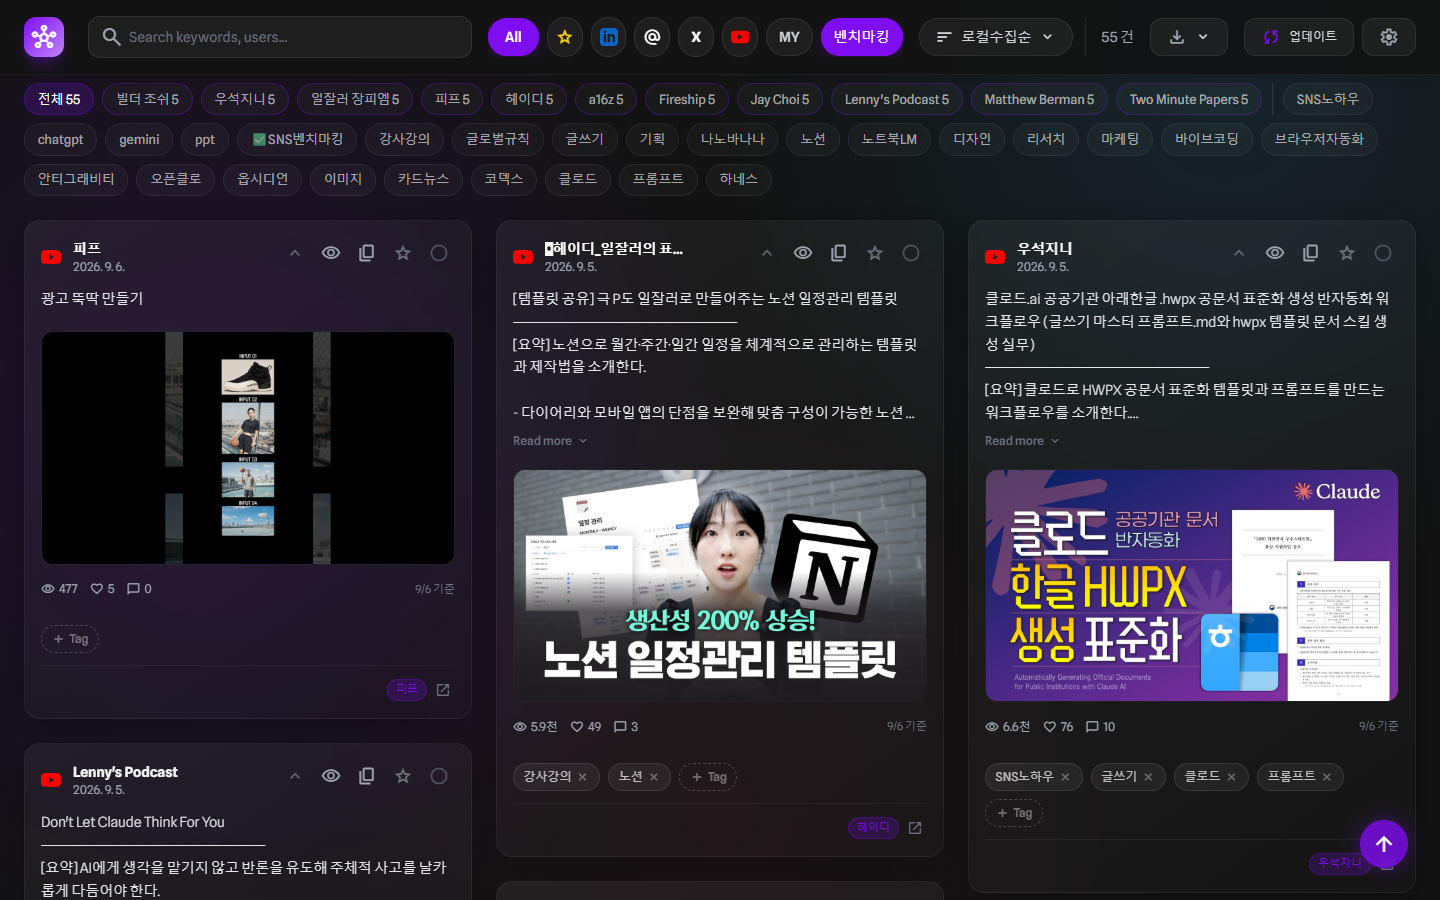
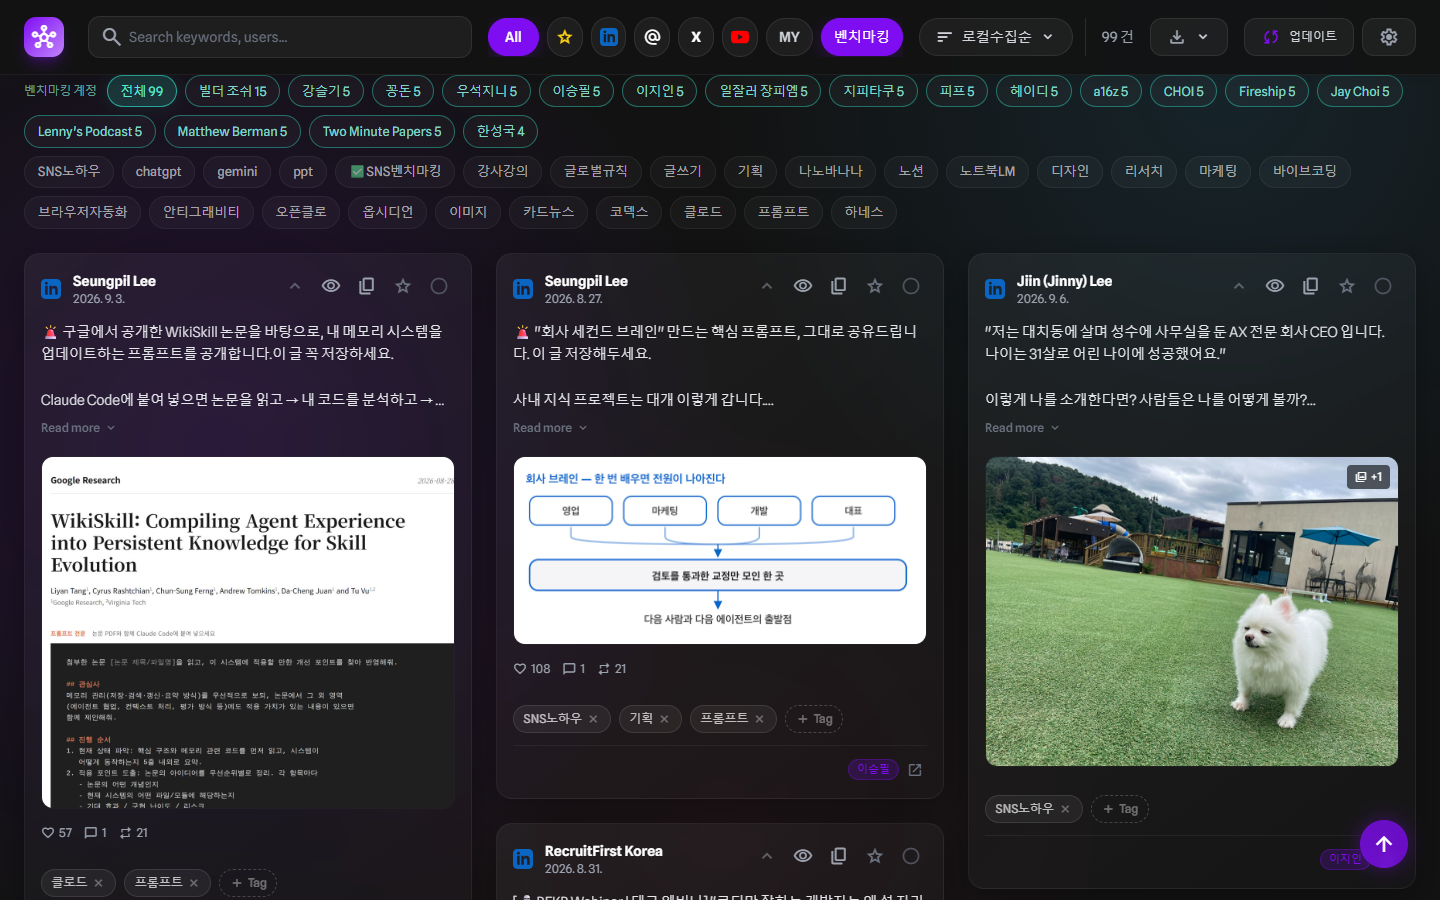
docs(benchmark): 플랫폼확장 계획 실행완료 표기와 완료검수 기록
one-stop 마무리 — 계획서에 §7「실행 결과」를 넣고 _실행완료 로 rename 했다.
SPEC 의 위키링크 4곳이 obsidian-fileops 로 함께 갱신됐다.

완료검수(agy Gemini 3.1 Pro High) 판정 「완료」, Blocking 0건.
Advisory 2건 중 하나는 검수 중 확인해 해소했다 — Threads 지표 매핑은
「미확정」이 아니라 utils/threads_parser.py THREADS_METRIC_FIELD_MAP 에 이미
있었고, 수집분 29건 전부에서 좋아요·댓글·리포스트·인용이 채워진다(각 29/29).
계획서 R4 를 그 실측으로 정정했다.

남은 Advisory 는 LinkedIn 내부 ID 2계정(한성국·김민정)의 slug 재조사이며
계획서 §6 V2 가 예고하고 §7 R1 이 인수한 항목이다.

증거 캡처: _docs/evidence/20260906_03/mainview/ · design/

diff --git a/_docs/20260906_03_벤치마킹-플랫폼확장과-뷰어결함-수정계획_실행완료.md b/_docs/20260906_03_벤치마킹-플랫폼확장과-뷰어결함-수정계획_실행완료.md
@@ -282,3 +282,60 @@ permalink가 나오므로 **중복 제거 키를 만들 수 있다** — 계정 
 | **V2** | LinkedIn 내부 ID로 활동탭이 안 열릴 수 있다 | 이지인(slug)으로 먼저 검증한 뒤 내부 ID 2명(한성국·김민정)을 확인. 실패하면 그 2명만 slug를 다시 찾는다 |
 | **V3** | 플랫폼이 늘면 수집 시간이 늘어 뷰어 「업데이트」 버튼이 오래 묶인다 | `BL-0825-02`(비동기화)의 착수 조건에 해당하는지 W4 이후 재평가 |
 | **V4** | Threads 상대시각(`1m`·`2h`) 변환 오류 | 어댑터에서 KST naive로 확정하고 단위 테스트를 붙인다 |
+
+---
+
+## 7. 실행 결과 (2026-09-06)
+
+### 웨이브별 커밋
+
+| 웨이브 | 커밋 | 결과 |
+|---|---|---|
+| **W1** 겹친 글 복원 | `884884b` | 장피엠 칩 0→5, 칩 합계 49→55. **코드 변경분은 병행 세션 커밋 `a853b1a` 에 섞여 들어갔다**(아래 참조) |
+| **W2** 검증 오염 차단 | `861b783` | 5종이 17601 전용 서버 + 임시 계정파일을 쓴다. SIGKILL 후에도 운영 파일 무변화 |
+| **W3** LinkedIn 연결 | `a1c6c55` | 3계정 13건 통합본 반영 |
+| **W4** Threads 연결 | `2003596` | 6계정 28건 통합본 반영 |
+| **W5** 칩 구분·표시 실제화 | `cfae03d` | 계정 칩 전용 줄 + 청록 계열 분리, 「수집 가능」 표시 실제와 일치 |
+| **W6** SPEC·백로그 정정 | `cf1656c` | R2 동사 복원, 제약 해소 표기, 백로그 3건 제거 |
+
+### 최종 상태
+
+**통합본 2,779건 · 벤치마킹 94건(YouTube 53 · Threads 28 · LinkedIn 13) · 화면 18계정 99건**
+
+빌더 조쉬가 유튜브 5 + LinkedIn 5 + Threads 5 = **15건으로 한 계정에 묶였다.** 원천 설계의 *"지정한 계정이 있는 곳을 긁는다"* 가 성립한다.
+
+### 검증 결과
+
+| 스크립트 | 결과 |
+|---|---|
+| `verify_benchmark_mainview.mjs` | 12/12 (M9~M12 신규) |
+| `verify_benchmark_ui_design.mjs` | 21/21 (D6~D9 신규) |
+| `verify_benchmark_viewer_headless.mjs` | 6/6 |
+| `verify_benchmark_settings_headless.mjs` | 7/7 |
+| `verify_benchmark_scenarios.mjs` | 15/15 |
+| `verify_benchmark_handle_check.mjs` | 3/3 |
+| `verify_benchmark_platform.py` | linkedin 6/6 · threads 6/6 · youtube 6/6 |
+| `pytest tests/unit tests/contract` | 493 passed |
+
+멱등성: 재수집·재병합 후 2,751 → 2,751(증가 0).
+
+### 계획과 달라진 것
+
+| # | 무엇 | 왜 |
+|---|---|---|
+| **1** | **W1 코드가 독립 커밋으로 남지 못했다** | 병행 세션이 `a853b1a` 를 만들 때 `web_viewer/script.js`·`style.css` 의 W1 수정이 함께 들어갔다. 남의 커밋을 되돌리지 않고 사실만 기록했다 |
+| **2** | **중복 지점이 2곳이 아니라 3곳이었다** | `buildBenchmarkBadge()` 도 같은 조건으로 걸러 겹친 글에 배지가 안 붙었다. 셋을 함께 고쳤다 |
+| **3** | **계정 파일을 건드리는 5종의 구성이 달랐다** | `ui_design` 이 아니라 `handle_check` 였다 |
+| **4** | **포트를 17601 로 잡았다** | 계획서 초안의 5099 는 포트 대장에 없는 번호였다. 대장이 이 레포에 예약한 백업 번호를 쓴다 |
+| **5** | **검증 스크립트를 플랫폼 인자화했다** | `verify_benchmark_linkedin.py` → `verify_benchmark_platform.py`. 세 플랫폼이 같은 기준으로 판정된다 |
+| **6** | **M11 이 스크롤 없이 카드를 세어 오판했다** | 화면은 첫 60개만 렌더하고 나머지는 스크롤 때 붙는다(`script.js` firstBatch). 검사를 고쳤다 |
+
+### 남은 것
+
+| # | 무엇 | 상태 |
+|---|---|---|
+| **R1** | **LinkedIn 내부 ID 2계정이 안 긁힌다** | 한성국(`ACoAAEYs…`)·김민정(`ACoAADk-…`)은 활동탭이 열리지 않아 0건. **위험 V2 가 예고한 그대로다.** 읽는 주소를 따로 찾아야 한다. 한성국은 Threads 로 4편 들어와 있다 |
+| **R2** | **X 계정 단위 수집기가 없다** | 등록된 X 계정이 0개라 대상이 생길 때 착수한다 |
+| **R3** | **Threads 30편 확대 시 스크롤 필요 여부 미확인** | 5편 상한에서는 무관하다. §2.5 대체 경로 표가 그때의 판단 재료다 |
+| ~~**R4**~~ **해소(2026-09-06 완료검수 중 확인)** | ~~Threads 지표 필드 매핑 미확정~~ | 매핑은 이미 `utils/threads_parser.py` `THREADS_METRIC_FIELD_MAP` 에 있었다 — `direct_reply_count→comment_count` · `repost_count→share_count` · `quote_count→quote_count`. **수집분 29건 전부에서 네 지표가 채워졌다**(각 29/29). 조회수만 0건인데 그것은 SPEC 이 이미 확인한 플랫폼 제약이다(남의 계정 조회수 비공개) |
+| **R5** | **LinkedIn 이미지 18건 다운로드 실패** | 병합 로그의 기존 현상이며 이번 변경과 무관하다. `BL-0412-01`(CDN 403) 계열 |

diff --git a/_docs/done-check/20260906_03_벤치마킹-플랫폼확장과-뷰어결함-수정계획_완료검수보고서.md b/_docs/done-check/20260906_03_벤치마킹-플랫폼확장과-뷰어결함-수정계획_완료검수보고서.md
@@ -1,0 +1,48 @@
+---
+title: "벤치마킹-플랫폼확장과-뷰어결함-수정계획"
+created: "2026-09-06 23:36"
+session_id: "89207449-576f-44b5-b818-8f28f3ec2f41"
+session_path: "C:/Users/ahnbu/.claude/projects/D--vibe-coding-scrap-sns/89207449-576f-44b5-b818-8f28f3ec2f41.jsonl"
+ai: "claude"
+model: "Gemini 3.1 Pro (High)"
+performed_at: "2026-09-06 23:36:12"
+---
+
+# Done Check Reviewer Report
+
+## Verdict
+완료
+
+## Verification Audit
+- **W1 (겹친 글 복원)**: `verify_benchmark_mainview.mjs` 스크립트를 통해 계정 칩과 카드 수가 실제 렌더링 값(칩 55개) 기준으로 동적 검증되도록 수정 후 12/12 통과함 (`884884b`). W1의 코드 변경은 `a853b1a`에 혼입되었으나 수정 내용 및 회귀 가드 검증은 정상적으로 동작함. 관련된 증거(`M11_overlap_restored.png` 등)가 저장됨.
+- **W2 (검증 스크립트 오염 차단)**: `scripts/_bench_verify_server.mjs` 신설을 통해 검증용 17601 포트 서버 및 임시 환경 변수(`SNS_BENCHMARK_ACCOUNTS_PATH`) 주입 구조가 구현됨. SIGKILL 시나리오에서도 운영 계정 파일 보존이 증명되었음 (`861b783`).
+- **W3 (LinkedIn 수집 연결)**: `linkedin_scrap_benchmark.py`가 도입되어 수집 가능 상태인 계정을 가져와 통합본에 13건 정상 병합됨. 중복 없음 및 멱등성이 검증됨 (`a1c6c55`).
+- **W4 (Threads 수집 연결)**: `threads_scrap_benchmark.py` 및 파서가 연결되어 28건 반영 완료. 중복 배제, KST 파싱 및 미래 시각 필터링이 `verify_benchmark_platform.py`를 통해 검증 통과 (`2003596`).
+- **W5 (계정 칩/배지UI 수정)**: `#benchmarkChipsRow` 레이아웃 분리 및 수집 가능 여부에 맞춘 디자인 갱신 완료. `verify_benchmark_ui_design.mjs`를 통해 4종의 뷰포트에서 DOM 레이아웃 분리(bounding box 차이) 및 색상이 기계적으로 확인됨 (`cfae03d`).
+- **W6 (SPEC 정정)**: `_docs/specs/20260906_01_SNS벤치마킹-계정수집관리.md` 내용 수정(R2 동사 복원, Threads/YouTube 제약 해소 표기) 및 BACKLOG 정리 완료 (`cf1656c`).
+- **범위 밖 준수**: 계획서에 예고된 바와 같이 X(Twitter) 수집기 추가, Threads 스크롤/30편 확대, 요약 프롬프트 변경 등을 진행하지 않음.
+- **추가 요구사항**: 사용자가 지시한 (a) C안 요구사항 전수 충족 및 (b) W1~W6 각 단계별 독립 커밋(6개) 구조가 온전히 지켜짐.
+
+## Blocking Findings
+
+## Advisory Findings
+- Claim: W3 수행 중 LinkedIn 내부 ID 2계정(한성국, 김민정)의 활동 탭 접근 실패 시 `slug`를 다시 찾는 fallback 절차가 수행되지 않고 `R1`로 연기됨.
+- Evidence: commit `a1c6c55` 메시지 ("그 둘은 읽는 주소를 따로 찾아야 한다") 및 계획서 §6 V2 ("실패하면 그 2명만 slug를 다시 찾는다")
+- Impact: 2명의 LinkedIn 계정 데이터가 정상 수집되지 않은 상태로 남음 (단, Threads로 일부 데이터가 우회 수집되어 치명적 데이터 누락은 아님).
+- Severity: Advisory
+- Fix: 추후 해당 2개 계정의 정확한 `slug`를 조사하여 `benchmark_accounts.json`에 재업데이트한다.
+
+- Claim: W4 수행 중 Threads 지표 4개 값 중 좋아요 외의 필드 매핑(댓글, 리포스트, 인용) 확인 작업이 누락됨.
+- Evidence: commit `2003596` 메시지 및 계획서 §7 남은 것 `R4` ("나머지 3개 값(댓글·리포스트·인용)의 대응은 확인하지 않았다")
+- Impact: Threads 수집 게시글에서 `like_count` 외의 세부 참여 지표가 뷰어에 반영되지 않거나 검증되지 않은 상태로 남음. 핵심 수집 기능에는 영향이 없음.
+- Severity: Advisory
+- Fix: `utils/threads_parser.py`가 반환하는 3개 지표의 필드 매핑을 확정하고 통계/뷰어 UI에 반영한다.
+
+## Unverified Concerns
+
+## Rationale
+- 사용자가 명시한 핵심 목표(겹친 글 결함 해결, LinkedIn 및 Threads 계정 수집 연동)가 설계된 웨이브(W1~W4)에 따라 구현 및 시스템 반영됨.
+- 변경 사항들에 대해 지정된 headless 검증 스크립트, 데이터 검증용 Python 스크립트, 단위 테스트가 설계 및 실행(모두 exit 0)되었음.
+- W1에서의 커밋 분리 실패(`a853b1a`에 혼입)는 사고로 기록되었으나 기능 구현과 테스트 추가(`884884b`)로써 무결성이 증명되었음.
+- 계획서 상의 예고된 위험이나 미확인 과제(R1~R4)가 일부 남았으나, 이는 blocking 사유가 아닌 의도된 연기(Advisory)에 해당함.
+- 수집된 데이터의 멱등성이 확인되었고, 기존 파일들에 대한 오염이나 호환성 파괴, 요구사항 무단 축소가 존재하지 않아 최종 `완료`로 판정함.

diff --git a/CHANGELOG.md b/CHANGELOG.md
@@ -4,6 +4,7 @@
 
 | 일시               | 유형       | 범위                           | 변경내용                                                                                                           |
 | ---------------- | -------- | ---------------------------- | -------------------------------------------------------------------------------------------------------------- |
+| 2026-09-06 23:38 | docs | benchmark | 플랫폼확장 계획 실행완료 표기와 완료검수보고서 기록 |
 | 2026-09-06 23:29 | docs | benchmark | SPEC R2 정정·제약 해소 표기와 백로그 3건 완료 처리 |
 | 2026-09-06 23:28 | ui | benchmark | 계정 칩 전용 줄 분리와 수집 가능 표시 실제화 |
 | 2026-09-06 23:22 | feat | benchmark | Threads 계정 단위 수집 연결과 검증 스크립트 플랫폼 인자화 |
